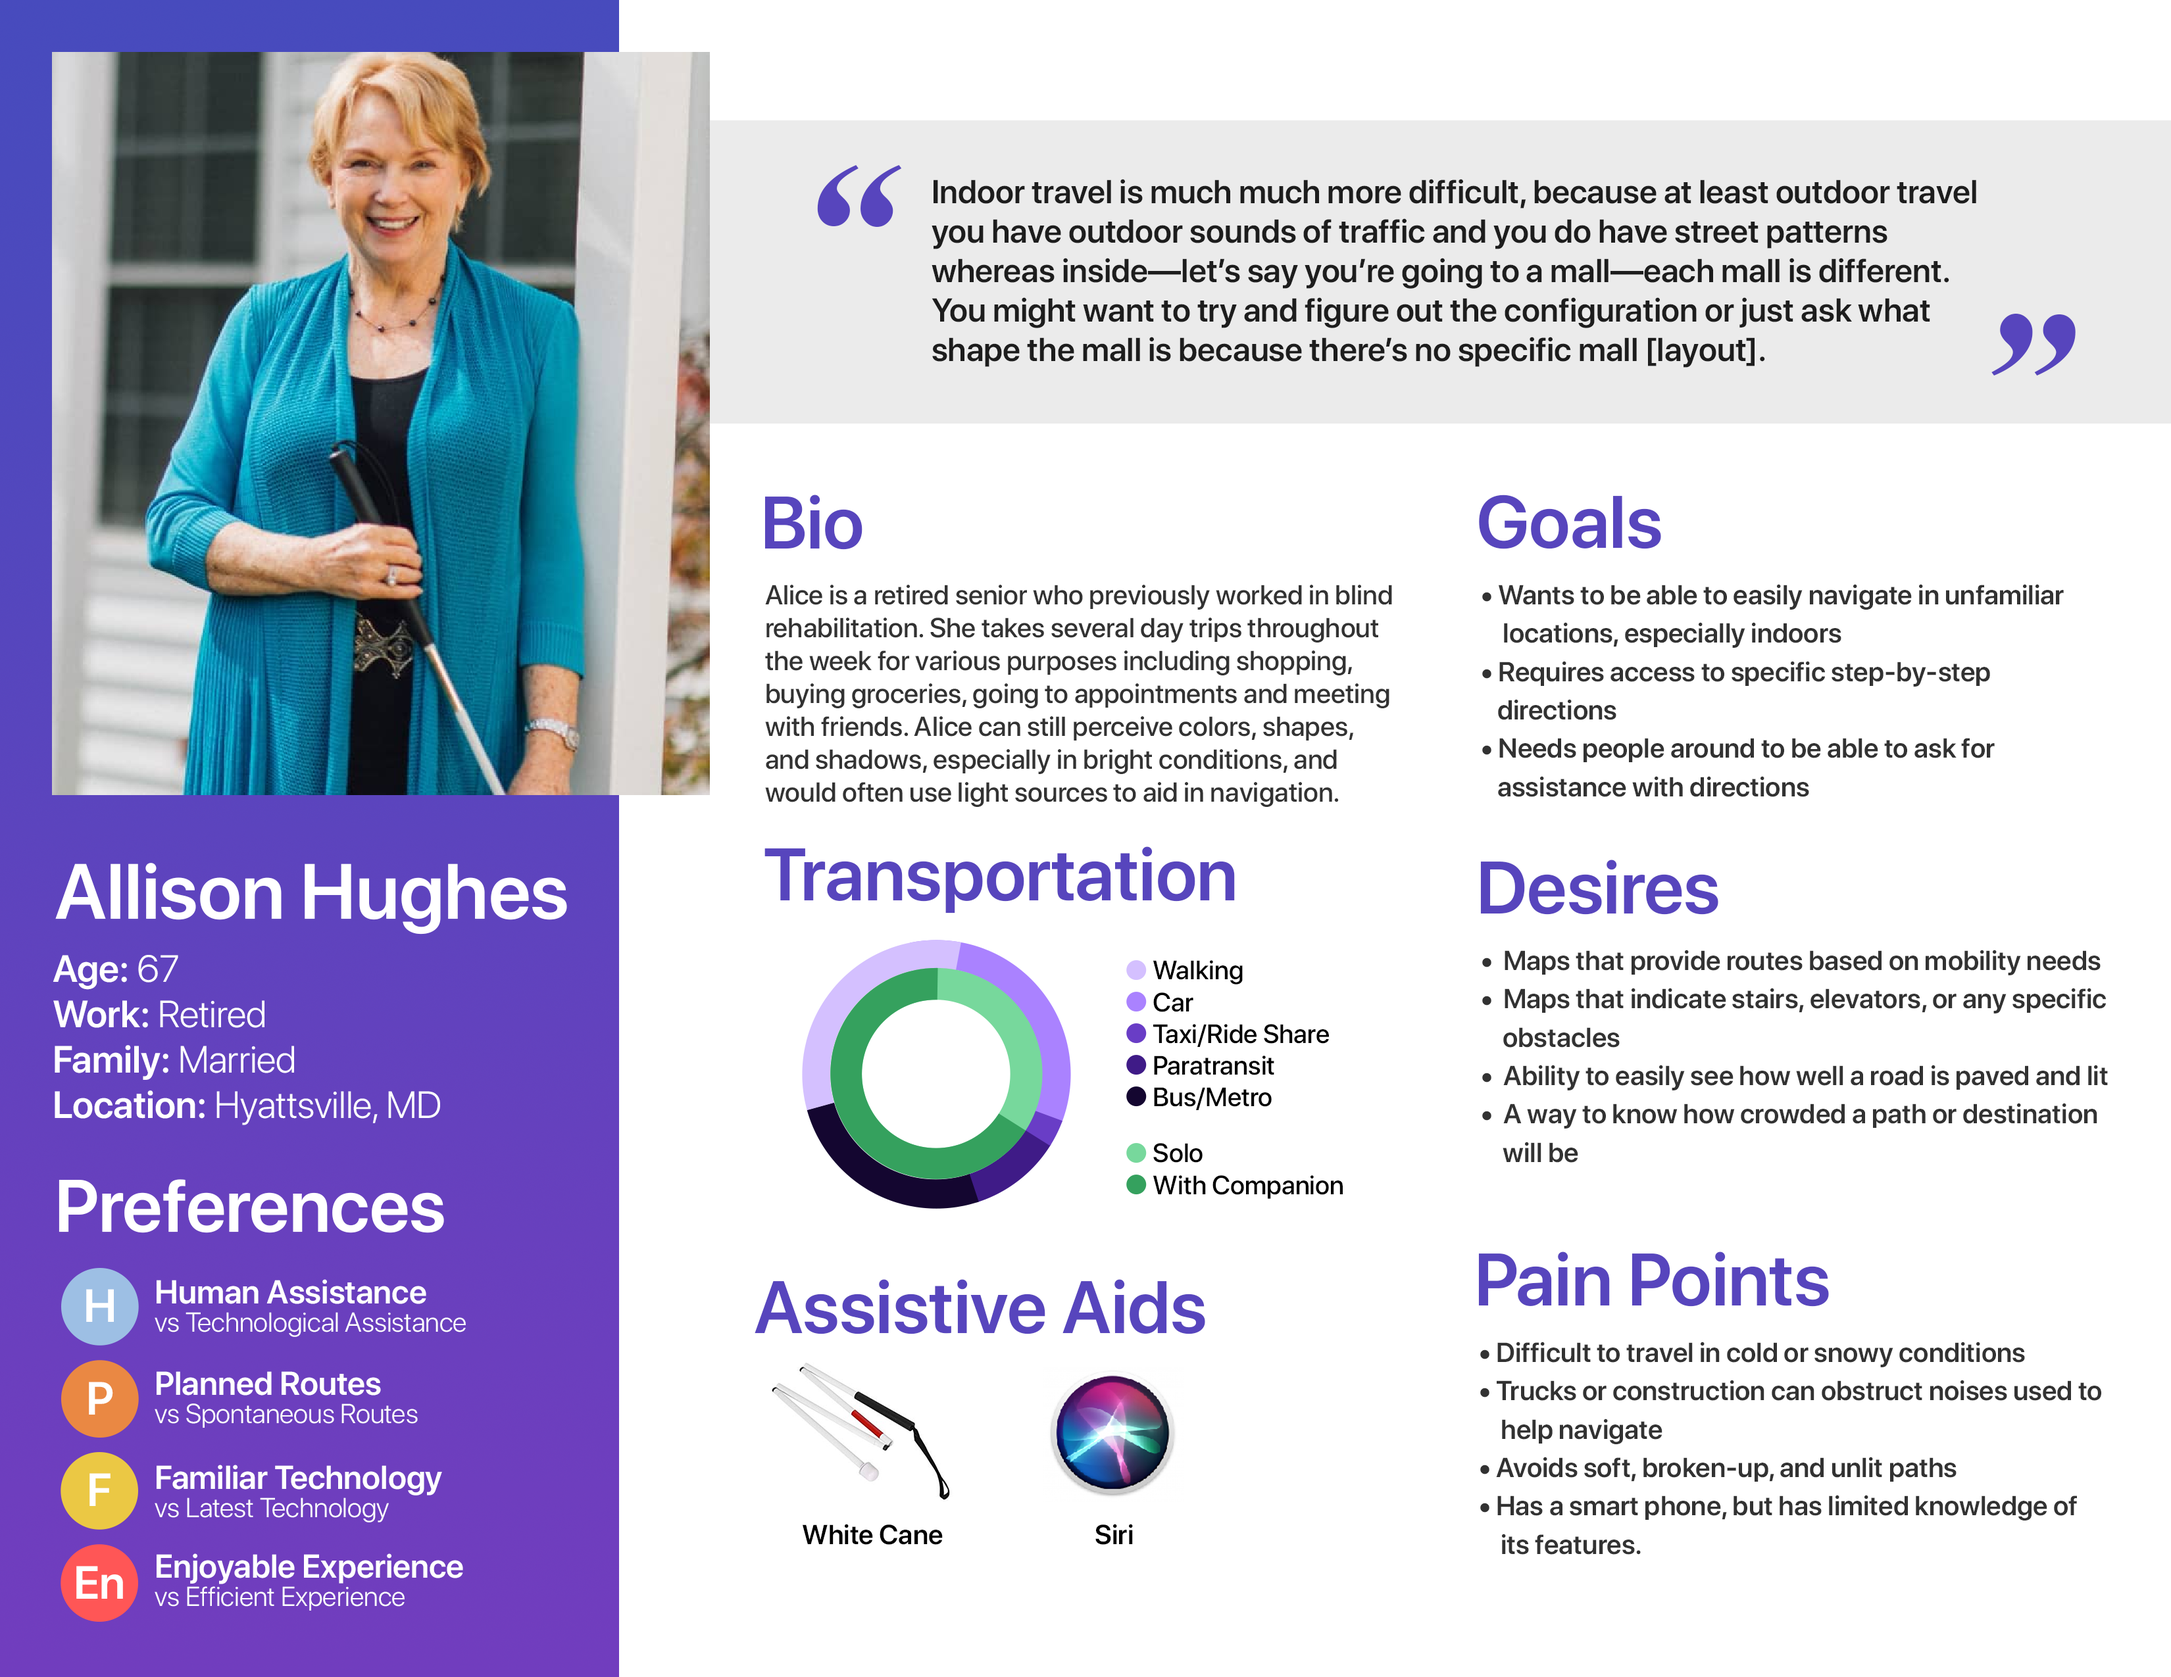
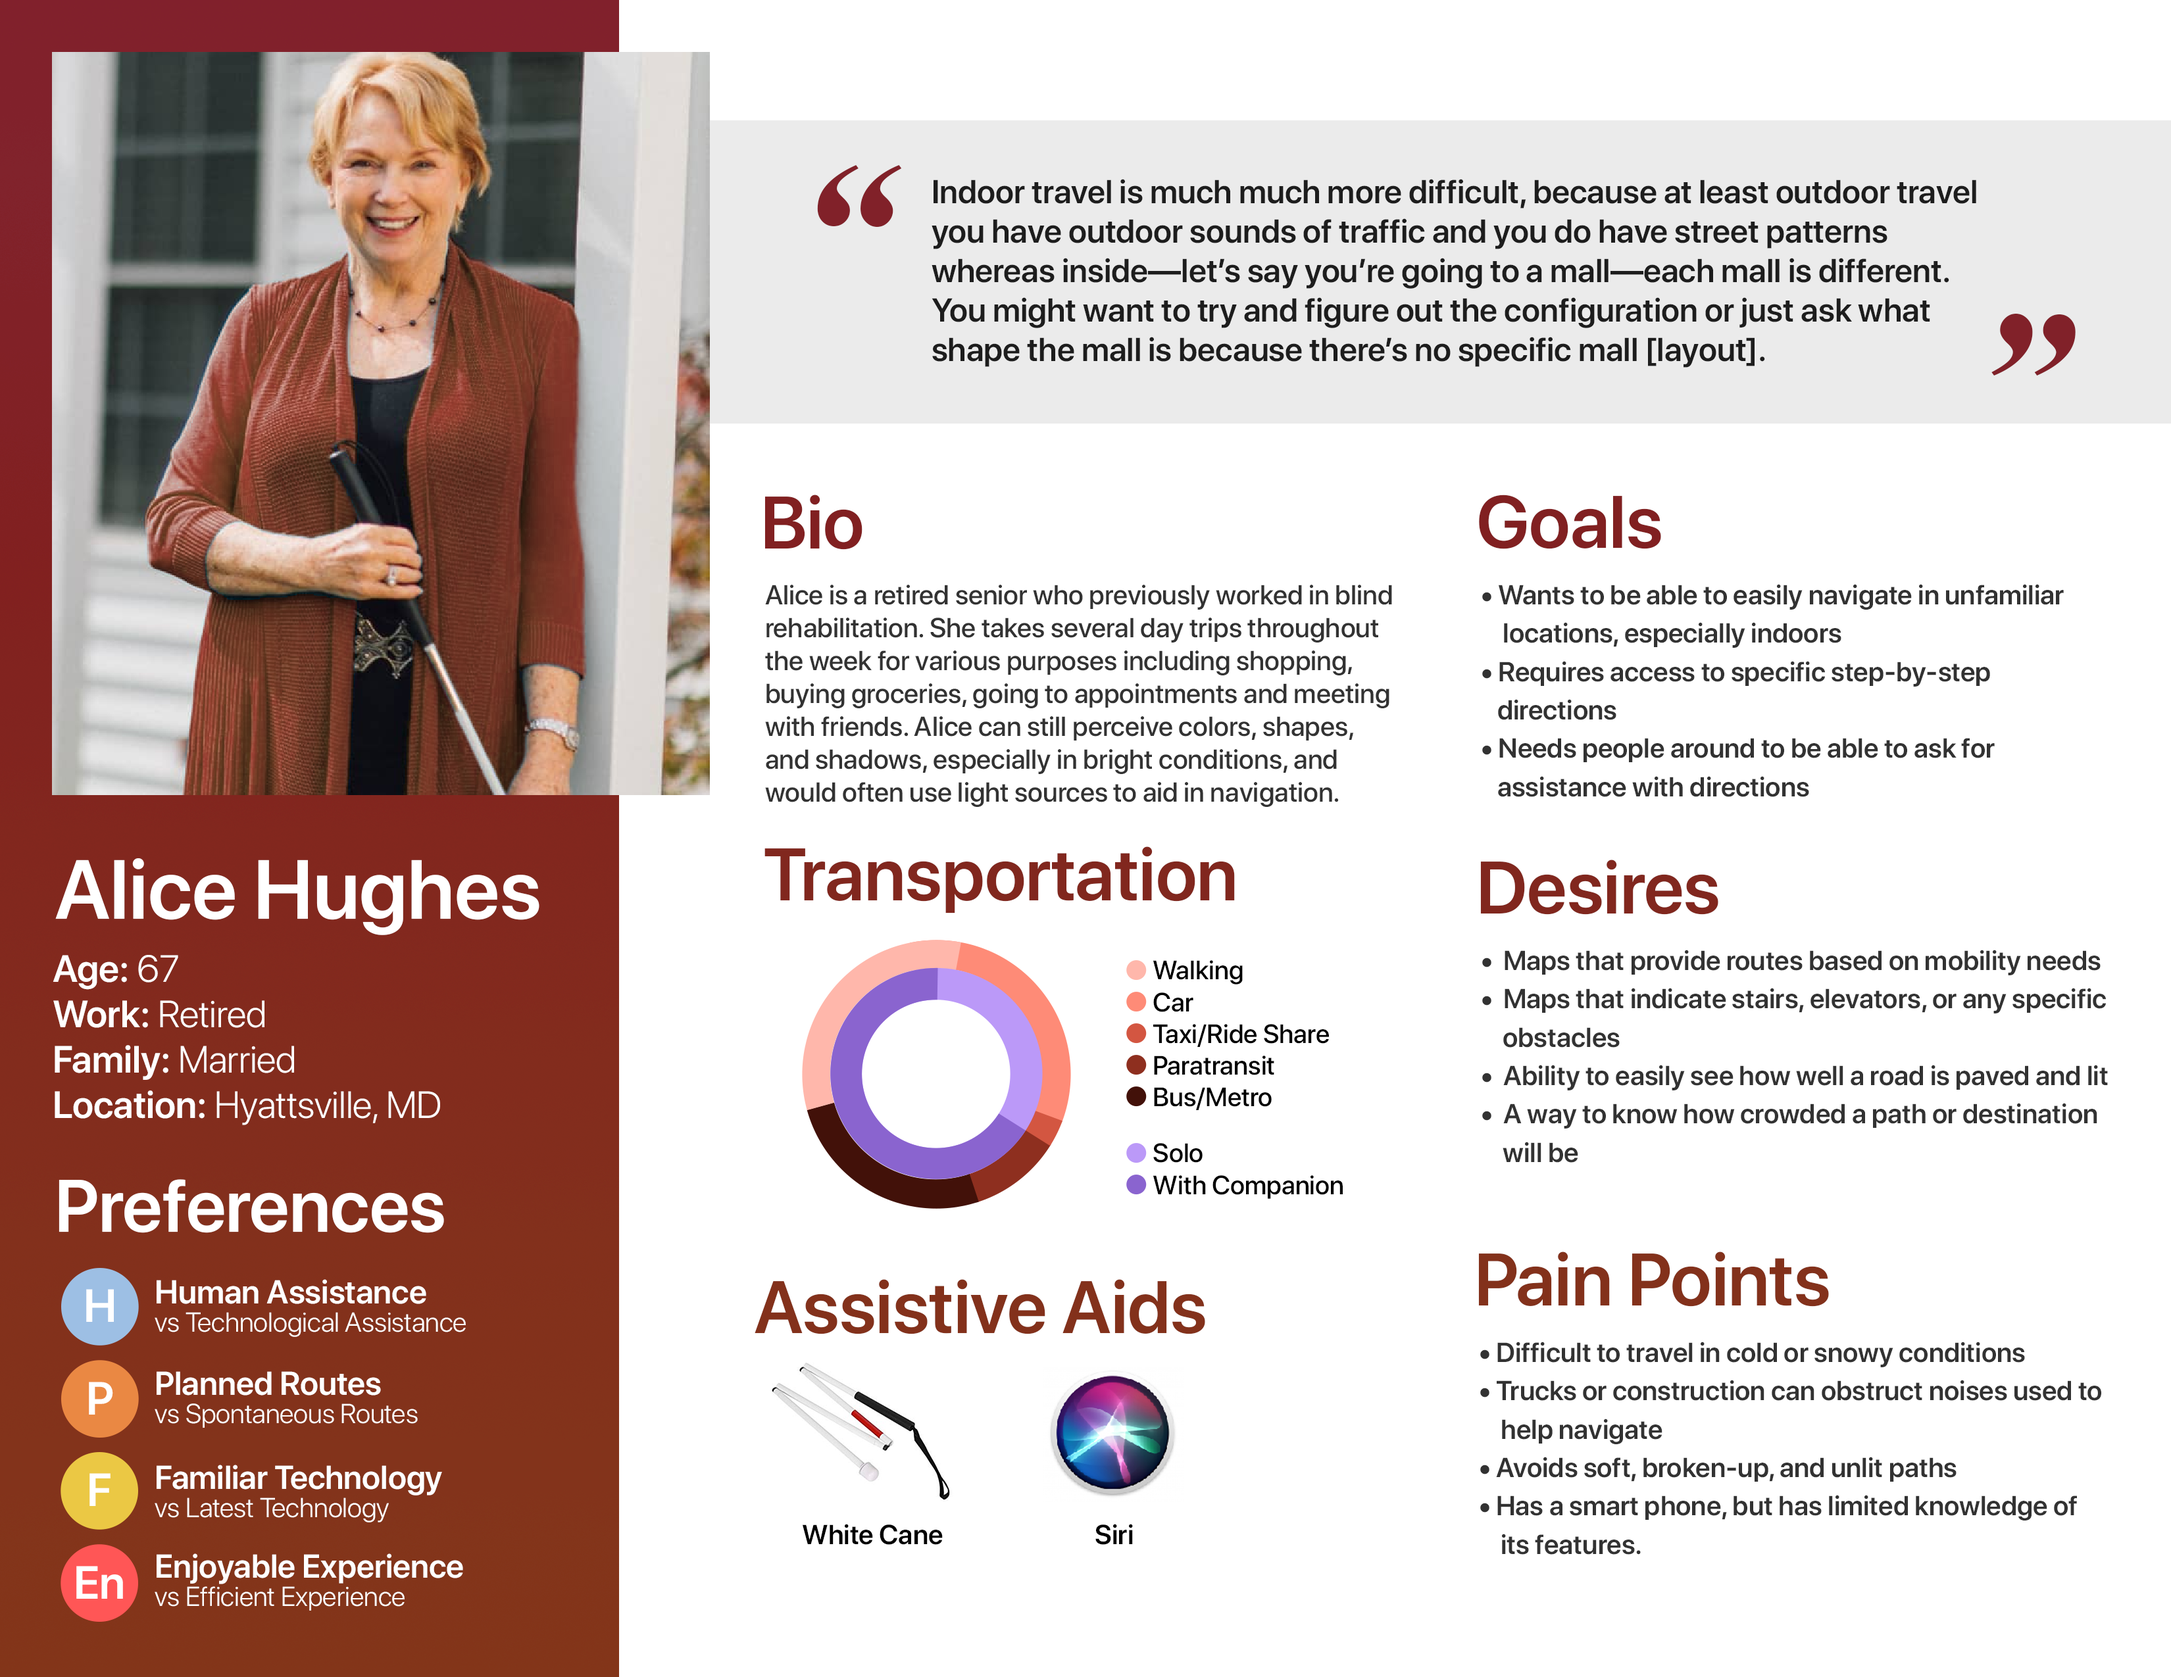
Toyota Project Theme

diff --git a/index.html b/index.html
@@ -59,9 +59,9 @@
         </div>
       </a>
       <div class="work-info" id="insite-info">
-        <p class="project-type">MOBILE DESIGN</p>
+        <p class="project-type">UX RESEARCH</p>
         <a class="project-logo" href="insite.html">
-          <img class="insite-logo" src="images/logos/insite-logo.png">
+          <img class="insite-logo" src="images/logos/toyota-logo.png">
         </a>
         <p class="project-title light">Support Mobility for All</p>
         <p class="project-desc light">Research and prototyping of navigational<br>technology for older and disabled adults</p>

diff --git a/css/about.css b/css/about.css
@@ -36,7 +36,7 @@ body {
   display: flex;
   flex-direction: row;
   justify-content: flex-start;
-  margin: 0 200px 40px;
+  margin: 0 139 40px;
   
   width: 100%;
 }
@@ -133,14 +133,14 @@ body {
 .grid-container {
   display: grid;
   
-  grid-template-columns: 200px 7fr 5fr 200px;
+  grid-template-columns: 139px 7fr 5fr 139px;
   grid-template-rows: auto auto auto;
   
   width: 100%;
 }
 
 .bio {
-  padding: 40px 200px 40px;
+  padding: 40px 139px 40px;
   
   background-color: #F2F2F2;
   

diff --git a/css/index.css b/css/index.css
@@ -192,7 +192,7 @@ body {
   width: 600px;
   height: 488px;
   
-  filter: saturate(0.7);
+  filter: saturate(0.8);
   transition: 0.5s ease-in-out;
   box-shadow: 5px 5px 15px rgba(0,0,0,0.3);
 }
@@ -231,7 +231,7 @@ body {
 }
 
 #insite-mockup {
-  background: radial-gradient(#A697FF, #4A35C7);
+  background: radial-gradient(#FF6369, #C52027);
 }
 
 .project-type {
@@ -270,7 +270,7 @@ body {
 }
 
 .insite-logo {
-  height: 70px;
+  height: 45px;
 }
 
 .project-title {

diff --git a/insite.html b/insite.html
@@ -35,7 +35,7 @@
     </div>
     <div class="project-card resize" id="project-card">
       <div class="title">
-        <img class="project-logo" src="images/logos/insite-logo.png">
+        <img class="project-logo" src="images/logos/toyota-logo.png">
         <h>UX Research to Promote Mobility for All</h>
       </div>
       <div class="project-info" id="info1">

diff --git a/css/insite.css b/css/insite.css
@@ -1,7 +1,7 @@
 :root {
-  --gradient1: #4A35C7;
-  --gradient2: #A697FF;
-  --headerColor: #4823A1;
+  --gradient1: #C52027;
+  --gradient2: #FF6369;
+  --headerColor: #84070C;
   --grey: #F2F2F2;
   
   --fullWidth: 750px;
@@ -90,7 +90,7 @@ p, h, h1, ul {
 .project-logo {
   display: block;
   margin: 0 auto;
-  width: 225px;
+  width: 300px;
 }
 
 .title > h {
